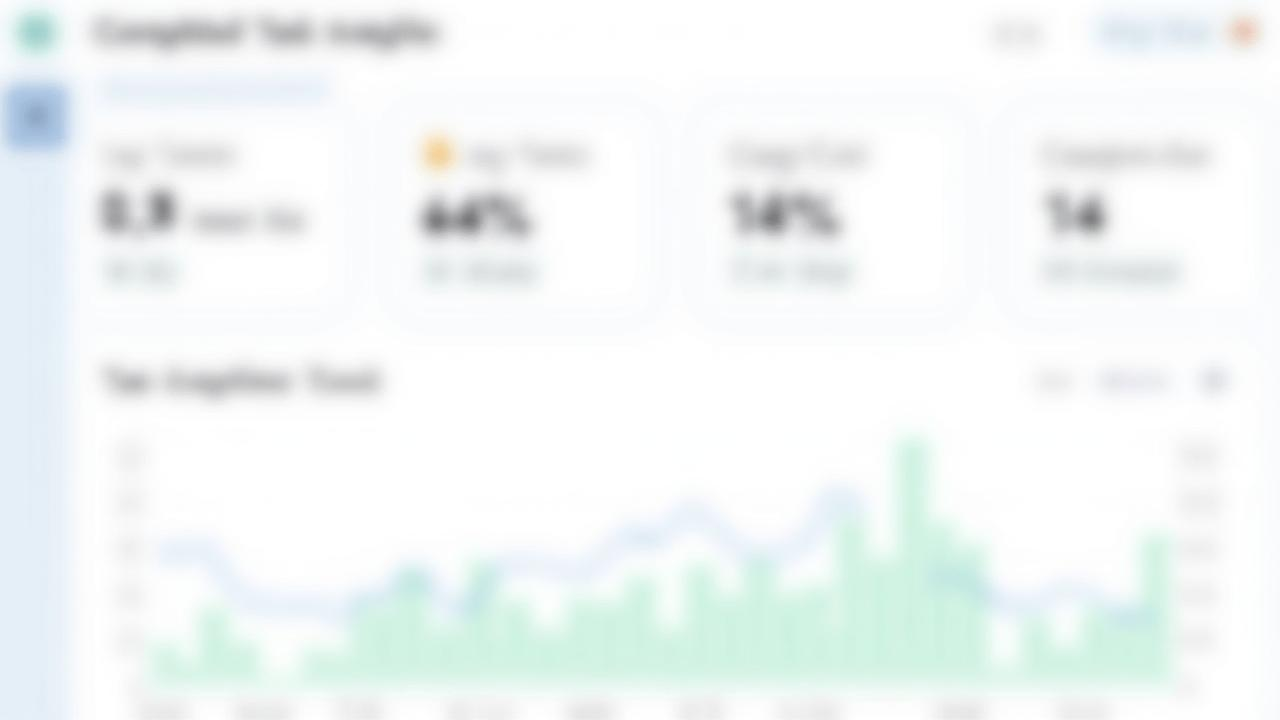
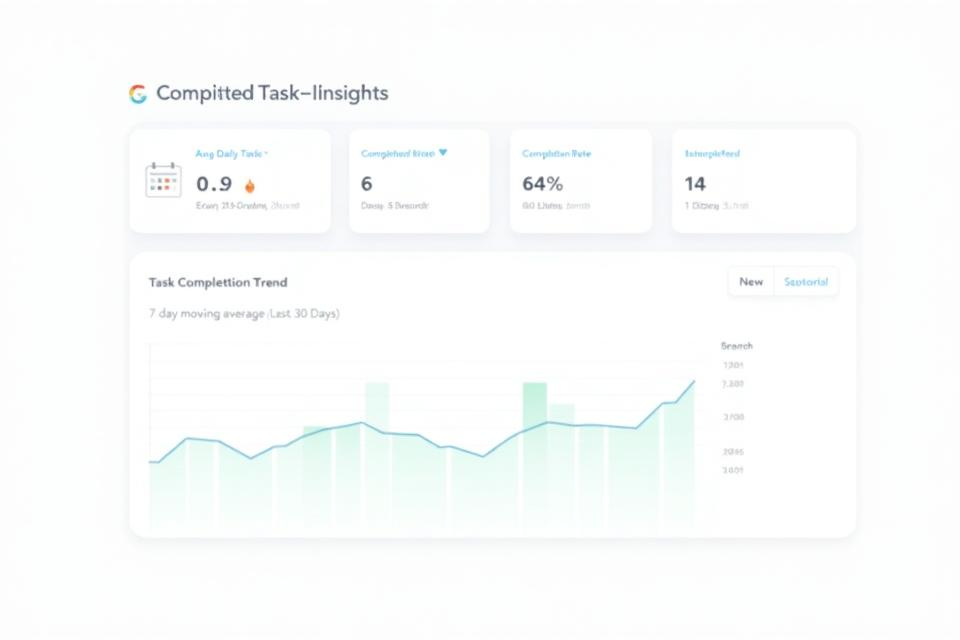
Fix blurry and oversized screenshot

diff --git a/src/pages/Index.tsx b/src/pages/Index.tsx
@@ -74,11 +74,11 @@ const Index = () => {
 
             {/* Right Column - Visual */}
             <div className="lg:col-span-5">
-              <div className="rounded-xl shadow-[0_20px_40px_rgba(0,0,0,0.1)] overflow-hidden">
+              <div className="rounded-xl shadow-[0_20px_40px_rgba(0,0,0,0.1)] overflow-hidden border border-border-gray">
                 <img 
                   src={dashboardScreenshot} 
                   alt="Completed Task Insights Dashboard showing task completion analytics, trends, and metrics" 
-                  className="w-full h-auto"
+                  className="w-full h-auto max-w-[600px] mx-auto"
                 />
               </div>
             </div>
